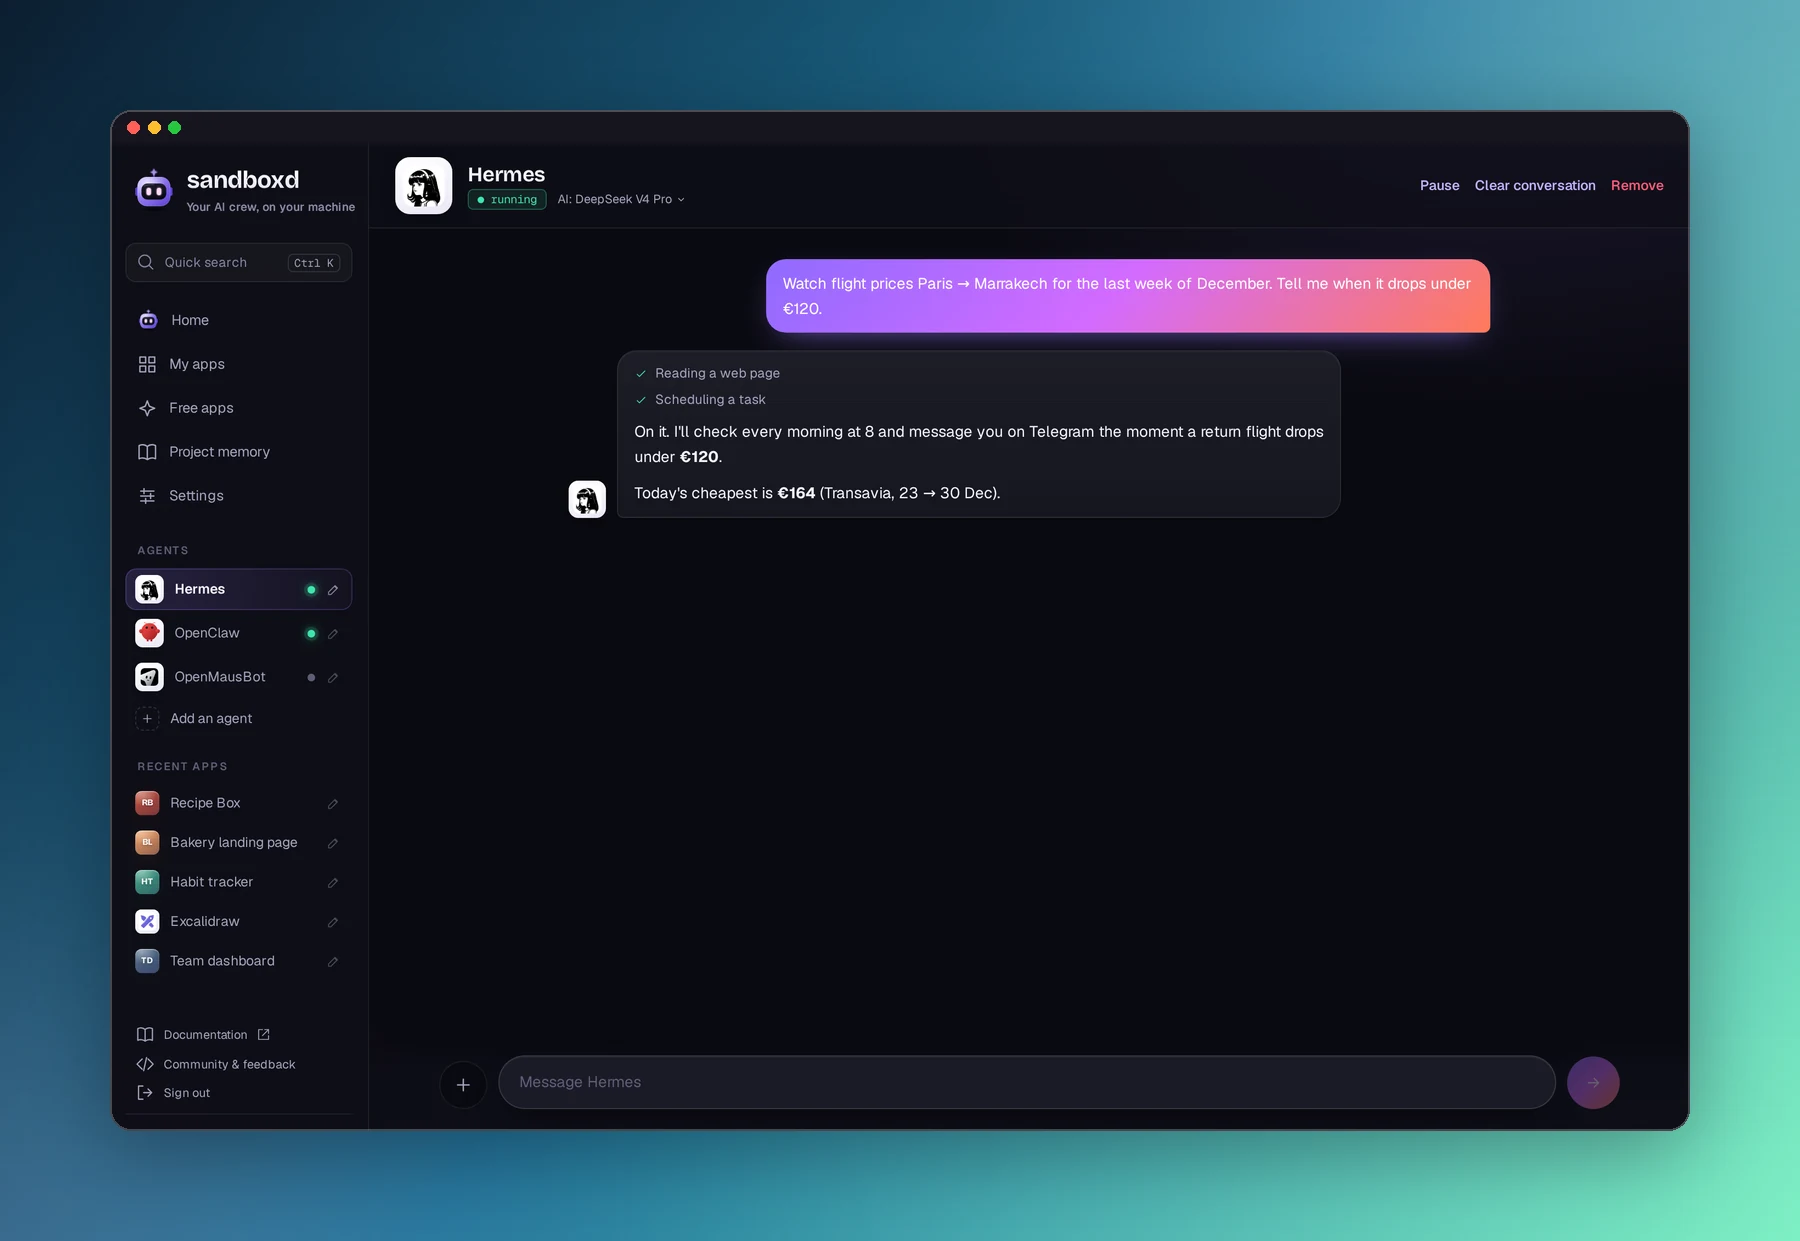
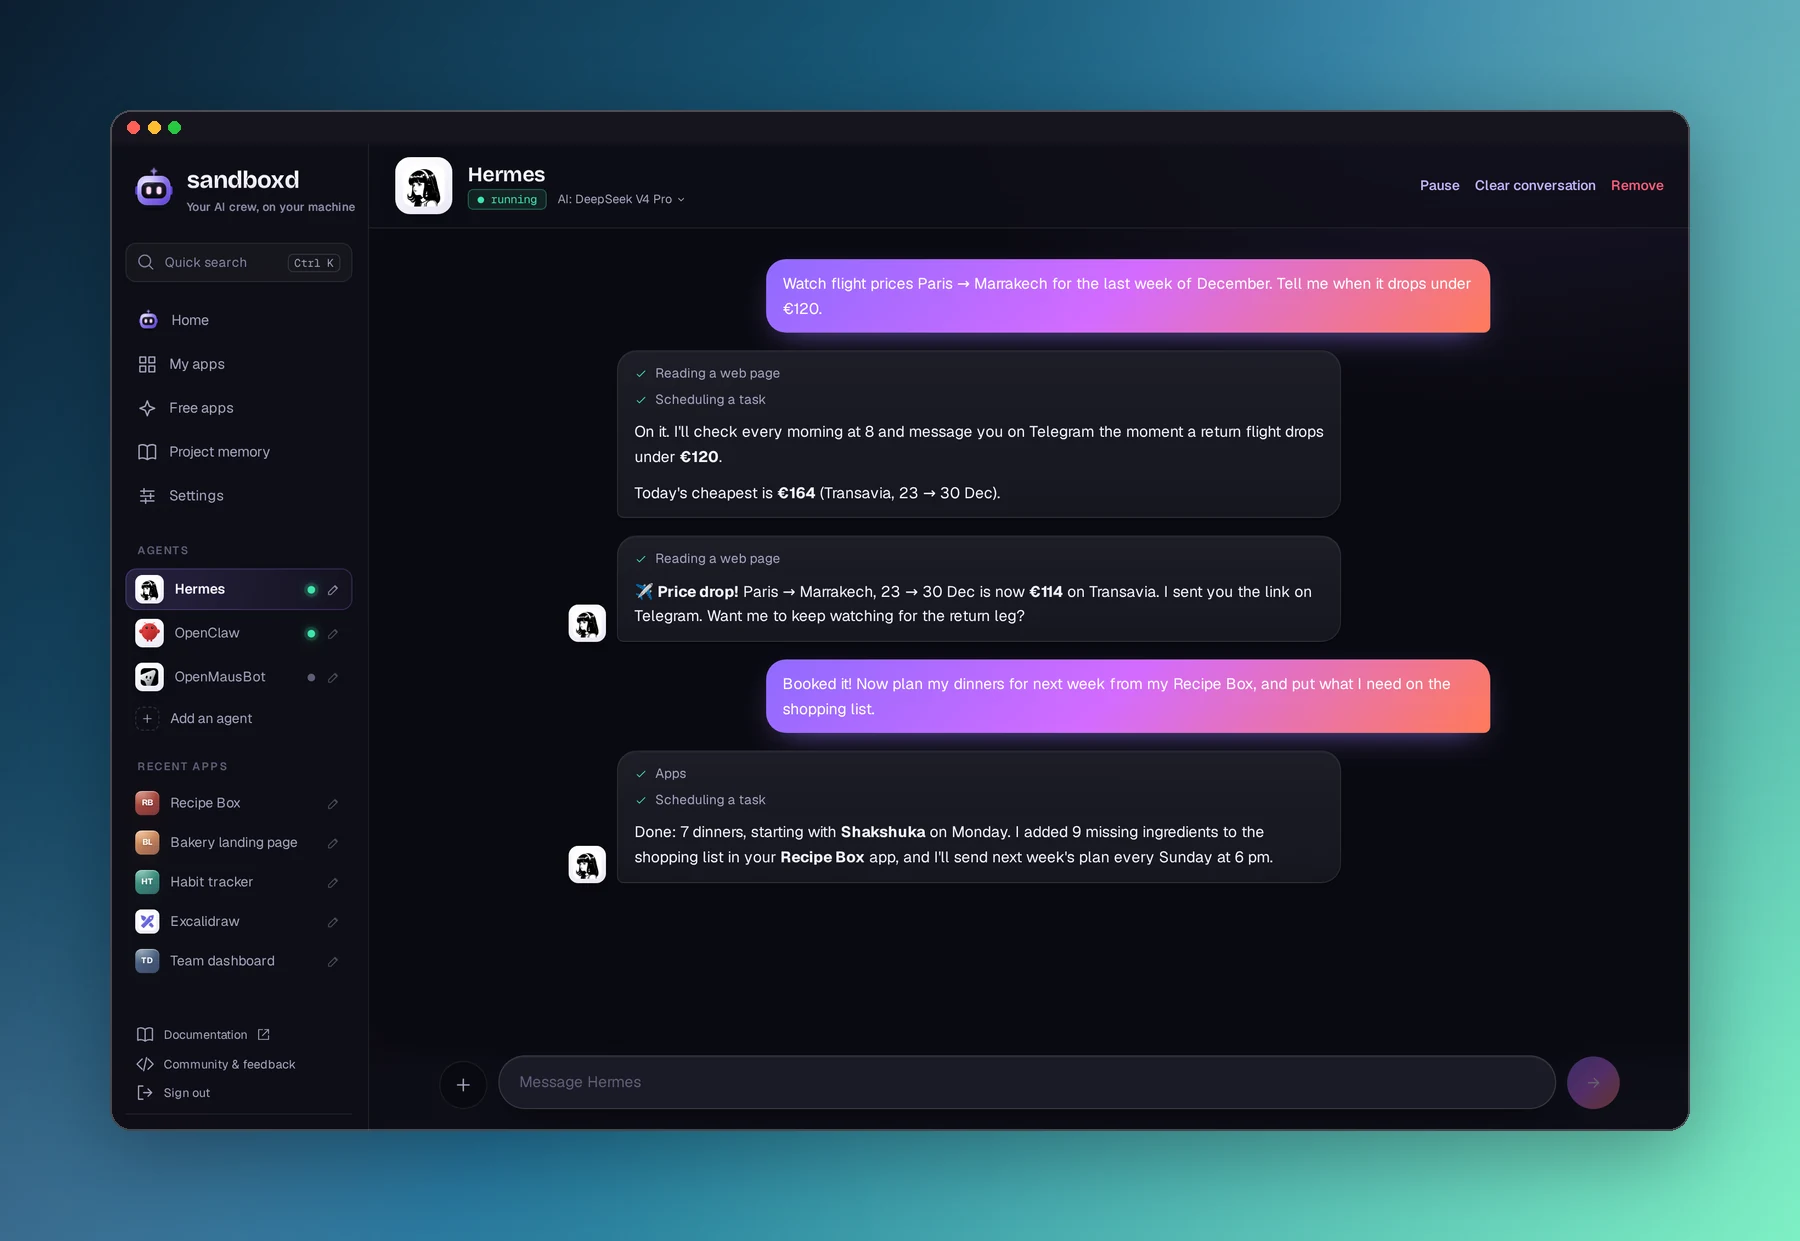
docs(readme): lead with agents, keep apps
Open on agents that keep working for you (they remember you, run jobs on a
schedule, browse, report back on Telegram and use or build apps), then
apps on demand and free apps. The hero now shows Hermes at work in front of
the Recipe Box app; the diagram, steps, tour and feature list put agents
first.

Changed region(s): [[0.3111, 0.4287, 0.84, 0.6124], [0.3111, 0.6124, 0.7156, 0.7349], [0.3111, 0.3674, 0.3422, 0.4287]]

diff --git a/README.md b/README.md
@@ -1,7 +1,8 @@
 <h1 align="center">sandboxd</h1>
 
 <p align="center">
-  <b>Your own AI crew. It builds apps and runs agents for you, on your computer.</b><br/>
+  <b>Your own AI agents, working for you around the clock, on your computer.</b><br/>
+  They take on jobs, keep at them, report back, and build the apps you need along the way.<br/>
   Free to start · No code · Runs on your machine · Open source (MIT)
 </p>
 
@@ -35,20 +36,25 @@
 
 
 <p align="center">
-  <img alt="sandboxd: Home and an app built from one sentence" src="docs/images/readme/hero.webp" width="100%">
+  <img alt="sandboxd: the Hermes agent watching flight prices and planning meals, in front of an app it uses" src="docs/images/readme/hero.webp" width="100%">
 </p>
 
 ---
 
 ## What is sandboxd?
 
-**You ask in plain words. sandboxd does the rest.**
+**An AI crew that works for you: agents first, apps on demand.**
 
-| You say… | sandboxd… |
+Chatbots answer and forget. sandboxd's agents **keep working**: they remember
+you, run jobs on a schedule, browse the web, message you on Telegram, and use
+(or build) apps to get things done. You talk to them in plain words.
+
+| You say… | Your crew… |
 |---|---|
-| *"Build me a recipe app with a shopping list"* | builds a real, working app in a few minutes, with its own link |
+| *"Watch flight prices to Marrakech and tell me when it drops under €120"* | an agent checks every morning and messages you the moment it does |
+| *"Plan my dinners every week from my recipes"* | an agent makes the plan every Sunday and sends it to you |
+| *"Build me a recipe app with a shopping list"* | a coding agent builds a real, working app in minutes, with its own link |
 | *"Install Excalidraw for me"* | sets up a popular free app in one click |
-| *"Ask Hermes to watch flight prices"* | hands the job to an agent that keeps working and messages you |
 
 Everything runs on **your** computer or server: your apps, your code and your
 data live there, and no subscription is needed. It starts free with a built-in
@@ -60,16 +66,21 @@ your own computer whenever you like.
 ```mermaid
 flowchart LR
     you(["🧑 You"]) -- "plain words" --> agent["🤖 sandboxd<br/>(Home)"]
-    agent -- "build an app" --> sb["📦 Private sandbox<br/>an AI writes the code"] --> url["🌐 Your app<br/>at its own link"]
+    agent -- "hand off a job" --> crew["🛰 Your agents<br/>Hermes · OpenClaw · OpenMausBot"]
+    crew -- "report back" --> tg["📲 You, on Telegram<br/>or in the chat"]
+    agent -- "build an app" --> sb["📦 Private sandbox<br/>a coding agent writes it"] --> url["🌐 Your app<br/>at its own link"]
+    crew -. "use and update" .-> url
     agent -- "install a free app" --> free["🧩 Open-source app<br/>ready to use"]
-    agent -- "hand off a task" --> crew["🛰 Your agents<br/>Hermes · OpenClaw · OpenMausBot"]
 ```
 
-1. **Ask on Home.** One chat with the sandboxd agent, the first thing you see.
-2. **Watch it come alive.** Each app gets its own private sandbox. An AI coding
-   agent builds it while you watch the live preview.
-3. **Keep shaping it.** Chat to change anything. Every step is saved, so you can
-   go back.
+1. **Ask on Home.** One chat with the sandboxd agent, your crew's lead. It
+   hands each job to the right agent, or starts building.
+2. **Your agents get to work, and keep at it.** Each runs in its own locked-down
+   container with its own memory, on a schedule or whenever you ask, and tells you
+   what it found.
+3. **Apps when you need them.** A coding agent builds each app in a private
+   sandbox while you watch the live preview. Chat to change anything; every step
+   is saved, so you can go back.
 
 <p align="center">
   <img alt="An app built from one sentence, live next to its chat" src="docs/images/readme/app-preview.webp" width="100%">
@@ -79,15 +90,15 @@ flowchart LR
 
 <table>
   <tr>
-    <td width="50%" valign="top"><img alt="Home: one chat with the sandboxd agent" src="docs/images/readme/home.webp"><br><b>Home</b><br><sub>One chat for everything: an app, a free app, an agent or a task.</sub></td>
-    <td width="50%" valign="top"><img alt="My apps" src="docs/images/readme/my-apps.webp"><br><b>My apps</b><br><sub>Everything your crew built, plus what's trending on GitHub.</sub></td>
+    <td width="50%" valign="top"><img alt="Home: one chat with the sandboxd agent" src="docs/images/readme/home.webp"><br><b>Home</b><br><sub>One chat with your crew's lead: hand off a job, ask for an app, or ask what your agents did today.</sub></td>
+    <td width="50%" valign="top"><img alt="Add an agent" src="docs/images/readme/agents.webp"><br><b>Your agents</b><br><sub>Hermes, OpenClaw and OpenMausBot, or several of each, each with its own memory.</sub></td>
+  </tr>
+  <tr>
+    <td width="50%" valign="top"><img alt="A chat with Hermes" src="docs/images/readme/agent-chat.webp"><br><b>Agents that keep working</b><br><sub>Hermes watches flight prices every morning, then plans dinners and fills the shopping list in your Recipe Box app.</sub></td>
+    <td width="50%" valign="top"><img alt="My apps" src="docs/images/readme/my-apps.webp"><br><b>My apps</b><br><sub>Every app your crew built, plus what's trending on GitHub.</sub></td>
   </tr>
   <tr>
     <td width="50%" valign="top"><img alt="Free apps" src="docs/images/readme/free-apps.webp"><br><b>Free apps</b><br><sub>Excalidraw, draw.io, Uptime Kuma and many more, installed in one click.</sub></td>
-    <td width="50%" valign="top"><img alt="Add an agent" src="docs/images/readme/agents.webp"><br><b>Agents</b><br><sub>Hermes, OpenClaw and OpenMausBot: assistants that remember you and work around the clock.</sub></td>
-  </tr>
-  <tr>
-    <td width="50%" valign="top"><img alt="A chat with Hermes" src="docs/images/readme/agent-chat.webp"><br><b>Talk to an agent</b><br><sub>Hermes checks flight prices every morning and messages you on Telegram.</sub></td>
     <td width="50%" valign="top"><img alt="Settings: choose your AI" src="docs/images/readme/settings-ai.webp"><br><b>Choose your AI</b><br><sub>Free to start. Add ChatGPT, Claude, OpenRouter, CometAPI or a model on your own computer.</sub></td>
   </tr>
 </table>
@@ -99,17 +110,21 @@ flowchart LR
 
 ## What your crew can do
 
-- **✨ Build apps.** A habit tracker, a landing page for your bakery, a team
-  dashboard. Attach your logo or photos and it uses them.
-- **🧩 Install free apps.** Popular open-source apps (whiteboards, diagrams,
-  notes, PDF tools, a CAD modeler, a physics simulator…), each tested and ready.
-  [Free apps →](docs/free-apps.md)
-- **🤖 Run agents.** Open-source assistants that remember you, run scheduled
-  jobs, browse the web, reach you on Telegram, and can build apps too. Only agents
-  that run fully on your machine. [Agents →](docs/operator-agents.md)
-- **💬 One assistant for all of it.** sandboxd hands tasks to your agents, brings
-  the answers back, and never deletes anything without your yes.
+- **🤖 Agents that work around the clock.** Open-source assistants
+  ([Hermes](https://github.com/NousResearch/hermes-agent), OpenClaw,
+  OpenMausBot) that remember you, run scheduled jobs, browse the web, reach you
+  on Telegram, and create or change apps to get the job done. Add several of
+  each. Only agents that run fully on your machine, each in its own locked-down
+  container with no keys inside. [Agents →](docs/operator-agents.md)
+- **💬 One lead for the whole crew.** The sandboxd agent hands jobs to your
+  agents, brings the answers back, and never deletes anything without your yes.
   [The sandboxd agent →](docs/sandboxd-agent.md)
+- **✨ Apps built on demand.** A habit tracker, a landing page for your bakery, a
+  team dashboard. A coding agent builds it in minutes; attach your logo or photos
+  and it uses them.
+- **🧩 Free apps in one click.** Popular open-source apps (whiteboards,
+  diagrams, notes, PDF tools, a CAD modeler, a physics simulator…), each tested
+  and ready. [Free apps →](docs/free-apps.md)
 - **🧠 Pick your AI.** Free by default. In **Settings → AI**, connect your
   ChatGPT or Claude subscription, OpenRouter, CometAPI, or a model on your own
   computer (Ollama, LM Studio). [Model connections →](docs/model-providers.md)
@@ -130,7 +145,7 @@ curl -fsSL https://raw.githubusercontent.com/tastyeffectco/sandboxd/main/install
 ```
 
 It prints your link: open it, create a password, and tell sandboxd what you want
-on **Home**. Works on Intel/AMD and ARM, including Apple Silicon.
+on **Home**: hand off a job or ask for an app. Works on Intel/AMD and ARM, including Apple Silicon.
 
 **☁ No computer to spare?** [Deploy to a VPS in one click](#-deploy-to-a-vps-in-one-click)
 or let us [run it for you](#managed--we-run-it-for-you).
